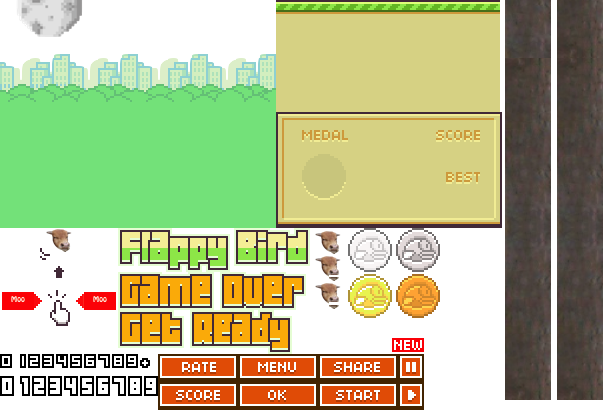
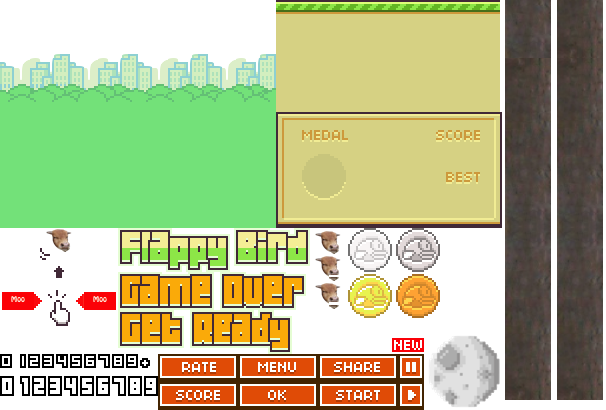
Added moon
Added moon
changed title to "Floaty cow" from FlappyJS

Changed region(s): [[0.7129, 0.8195, 0.8317, 0.9951], [0.0297, 0.0, 0.1485, 0.0878]]

diff --git a/sprite.js b/sprite.js
@@ -27,16 +27,19 @@ Sprite.prototype.draw = function(ctx, x, y) {
 
 function initSprites(img) {
 
+
 	s_bird = [
 		new Sprite(img, 156, 115, 17, 12),
 		new Sprite(img, 156, 128, 17, 12),
 		new Sprite(img, 156, 141, 17, 12)
 	];
 	
-	s_bg = new Sprite(img,   0, 0, 138, 114);
+	s_bg = new Sprite(img, 0, 0, 138, 114);//276, 228
 	s_bg.color = "#191970";
 	s_fg = new Sprite(img, 138, 0, 112,  56);
 	
+	s_moon = new Sprite(img, 214, 166, 37, 39); //427, 331
+
 	s_pipeNorth = new Sprite(img, 251, 0, 26, 200);
 	s_pipeSouth = new Sprite(img, 277, 0, 26, 200);
 	

diff --git a/index.html b/index.html
@@ -7,7 +7,7 @@
 	<meta name="apple-mobile-web-app-capable" content="yes">
 	<meta name="moblie-web-app-capable" content="yes">
 
-	<title>FlappyJS</title>
+	<title>Floaty cow</title>
 
 	<script src="sprite.js"></script>
 
@@ -266,6 +266,7 @@
 			ctx.fillRect(0, 0, width, height);
 			s_bg.draw(ctx, 0, height - s_bg.height);
 			s_bg.draw(ctx, s_bg.width, height - s_bg.height);
+			s_moon.draw(ctx, 10, 10);
 			
 			pipes.draw(ctx);
 			bird.draw(ctx);
